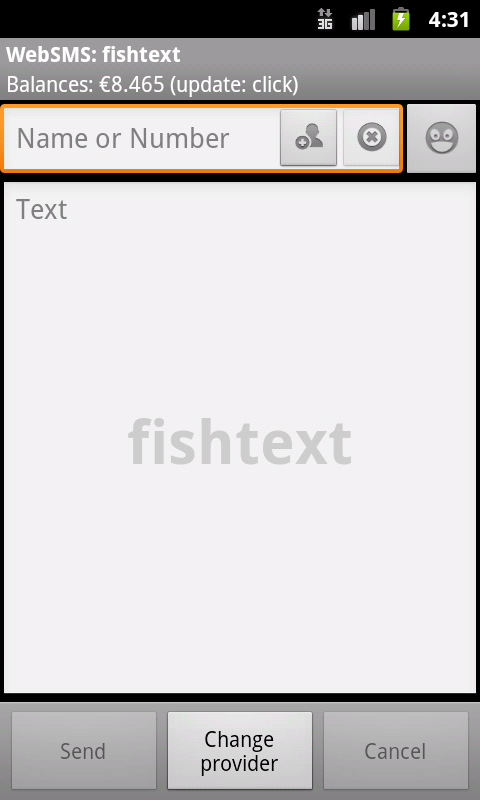
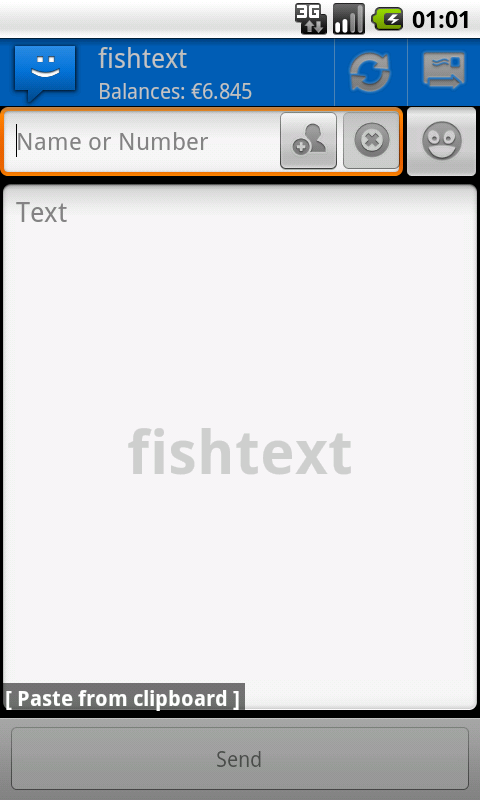
Enabled proper used sms count and remaining chars count, now that WebSMS is live with a version that supports it. Also updated screenshots.

diff --git a/src/com/fairmichael/fintan/websms/connector/fishtext/ConnectorFishtext.java b/src/com/fairmichael/fintan/websms/connector/fishtext/ConnectorFishtext.java
@@ -35,6 +35,7 @@ import android.content.Intent;
 import android.content.SharedPreferences;
 import android.preference.PreferenceManager;
 import android.widget.Toast;
+import de.ub0r.android.websms.connector.common.BasicSMSLengthCalculator;
 import de.ub0r.android.websms.connector.common.Connector;
 import de.ub0r.android.websms.connector.common.ConnectorCommand;
 import de.ub0r.android.websms.connector.common.ConnectorSpec;
@@ -92,8 +93,7 @@ public class ConnectorFishtext extends Connector {
     c.setAuthor(context.getString(R.string.connector_fishtext_author));
     c.setAdUnitId(AD_UNIT_ID);
     c.setLimitLength(MAXIMUM_MESSAGE_LENGTH);
-    // c.setSMSLengthCalculator(new BasicSMSLengthCalculator(new int[] { 160,
-    // 146, 153 })); //TODO commented out until websms main app is updated
+    c.setSMSLengthCalculator(new BasicSMSLengthCalculator(new int[] { 160, 146, 153 }));
     c.setBalance(null);
     c.setCapabilities(ConnectorSpec.CAPABILITIES_UPDATE | ConnectorSpec.CAPABILITIES_SEND | ConnectorSpec.CAPABILITIES_PREFS);
     c.addSubConnector("fishtext", c.getName(), SubConnectorSpec.FEATURE_MULTIRECIPIENTS);
